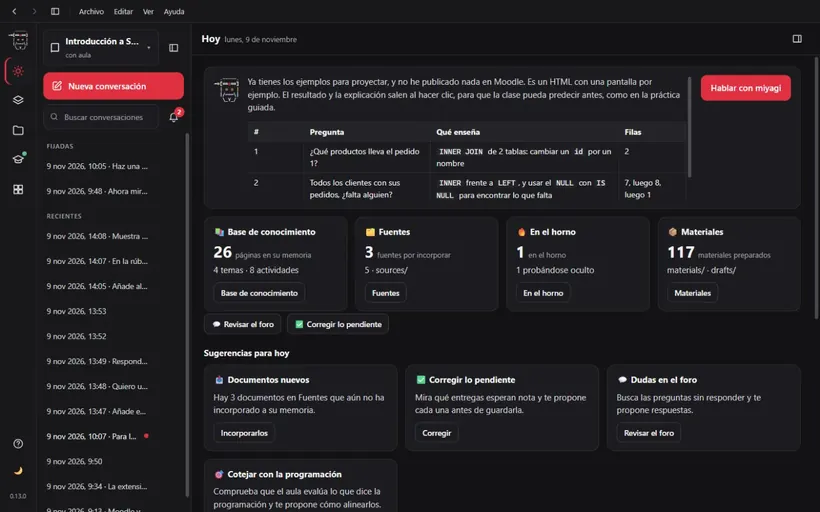
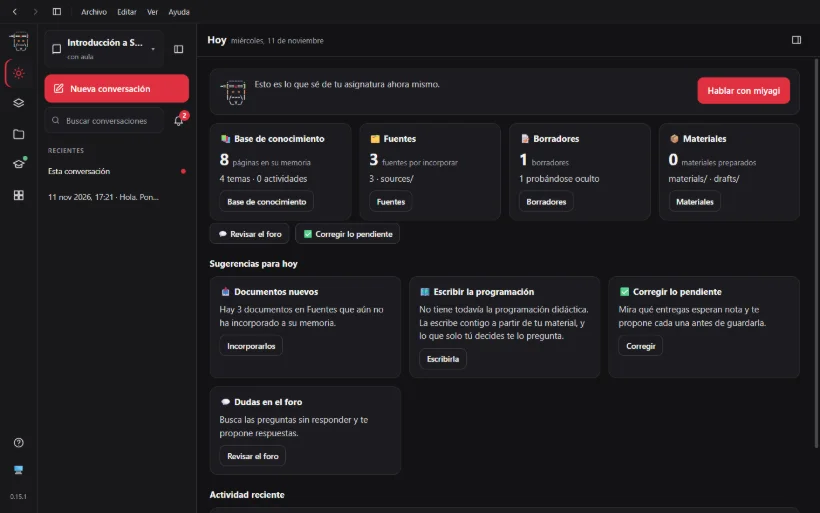
docs(site): capturas de Borradores, Hoy y la campana sin «En el horno»
Rehechas en la app de escritorio con la asignatura «Introducción a SQL» del
tutorial (curso 353 del sandbox) y el Cuestionario del Tema 1 oculto en
Borradores: Hoy en claro y en oscuro (con las versiones de 480 y 820 px de la
portada), la campana y la vista Borradores, que también es la del paso 6 del
tutorial. Los ficheros pasan a llamarse desktop-borradores y
tutorial-06-borradores. shot-to-webp acepta --width para las versiones pequeñas.

diff --git a/docs/content/casos-de-uso/tema-4-consultas.md b/docs/content/casos-de-uso/tema-4-consultas.md
@@ -38,7 +38,7 @@ Pide permiso una sola vez, enumerando las 3 secciones y las 16 actividades. Dice
 
 Lo único que sigue oculto es el Cuestionario del Tema 1, porque no lo mencionamos, y miyagi lo recuerda. Queda en **Borradores**, con un botón para mostrarlo:
 
-<Shot width="1400" height="875" kind="desktop" src="/img/v2/tutorial-06-horno.webp" alt="La vista Borradores: el Cuestionario del Tema 1 en la columna Probándose oculto, con el botón Mostrar a los alumnos.">En el horno, el cuestionario que falta.</Shot>
+<Shot width="1400" height="875" kind="desktop" src="/img/v2/tutorial-06-borradores.webp" alt="La vista Borradores: el Cuestionario del Tema 1 en la columna Probándose oculto, con el botón Mostrar a los alumnos.">Borradores, el cuestionario que falta.</Shot>
 
 <Shot width="1400" height="875" kind="desktop" src="/img/v2/tutorial-06-aprobacion-mostrar.webp" alt="Panel de aprobación para mostrar el Cuestionario del Tema 1: solo cambia la visibilidad, sin aviso; 10 preguntas al azar, 20 minutos, 2 intentos, pesa un 5 %.">Antes de mostrarlo: qué verán y qué no ha podido comprobar. Esta captura se hizo para el tutorial y luego la rechazamos.</Shot>
 

diff --git a/docs/i18n/en/docusaurus-plugin-content-docs/current/casos-de-uso/tema-4-consultas.md b/docs/i18n/en/docusaurus-plugin-content-docs/current/casos-de-uso/tema-4-consultas.md
@@ -38,7 +38,7 @@ It asks permission just once, listing the 3 sections and the 16 activities. It s
 
 The only thing still hidden is the Unit 1 quiz, because we didn't mention it, and miyagi reminds you of it. It stays in **Drafts**, with a button to show it:
 
-<Shot width="1400" height="875" kind="desktop" src="/img/v2/tutorial-06-horno.webp" alt="The Drafts view: the Unit 1 quiz in the Tested hidden column, with the Show to students button.">In the oven, the quiz that's missing.</Shot>
+<Shot width="1400" height="875" kind="desktop" src="/img/v2/tutorial-06-borradores.webp" alt="The Drafts view: the Unit 1 quiz in the Tested hidden column, with the Show to students button.">Drafts, the quiz that's missing.</Shot>
 
 <Shot width="1400" height="875" kind="desktop" src="/img/v2/tutorial-06-aprobacion-mostrar.webp" alt="Approval panel for showing the Unit 1 quiz: only the visibility changes, with no notice; 10 random questions, 20 minutes, 2 attempts, it counts for 5%.">Before showing it: what they'll see and what it hasn't been able to check. This screenshot was taken for the tutorial and we then rejected it.</Shot>
 

diff --git a/docs/content/guia/escritorio.md b/docs/content/guia/escritorio.md
@@ -177,7 +177,7 @@ Estas vistas enseñan lo que miyagi sabe y tiene preparado. Sus botones mandan a
 
 **Borradores** son las actividades que van por fases: en plan, en construcción, probándose oculta y recién publicada. Las que ya están en Moodle tienen **Ver en el aula**, que abre su página.
 
-<Shot width="1400" height="875" kind="desktop" src="/img/v2/desktop-horno.webp" alt="La vista Borradores, con cuatro columnas y el cuestionario del Tema 1 en Probándose oculto.">Borradores, con un cuestionario probándose oculto.</Shot>
+<Shot width="1400" height="875" kind="desktop" src="/img/v2/desktop-borradores.webp" alt="La vista Borradores, con cuatro columnas y el cuestionario del Tema 1 en Probándose oculto.">Borradores, con un cuestionario probándose oculto.</Shot>
 
 **Base de conocimiento** son las páginas que miyagi escribe y consulta sobre tu curso:
 

diff --git a/docs/i18n/en/docusaurus-plugin-content-docs/current/guia/escritorio.md b/docs/i18n/en/docusaurus-plugin-content-docs/current/guia/escritorio.md
@@ -177,7 +177,7 @@ These views show what miyagi knows and has prepared. Their buttons send to the c
 
 **Drafts** holds the activities that go through phases: planned, being built, tested hidden and just published. Those already in Moodle have **View in the classroom**, which opens their page.
 
-<Shot width="1400" height="875" kind="desktop" src="/img/v2/desktop-horno.webp" alt="The Drafts view, with four columns and the Unit 1 quiz in Tested hidden.">Drafts, with a quiz being tested hidden.</Shot>
+<Shot width="1400" height="875" kind="desktop" src="/img/v2/desktop-borradores.webp" alt="The Drafts view, with four columns and the Unit 1 quiz in Tested hidden.">Drafts, with a quiz being tested hidden.</Shot>
 
 **Knowledge base** is the pages miyagi writes and consults about your course:
 
